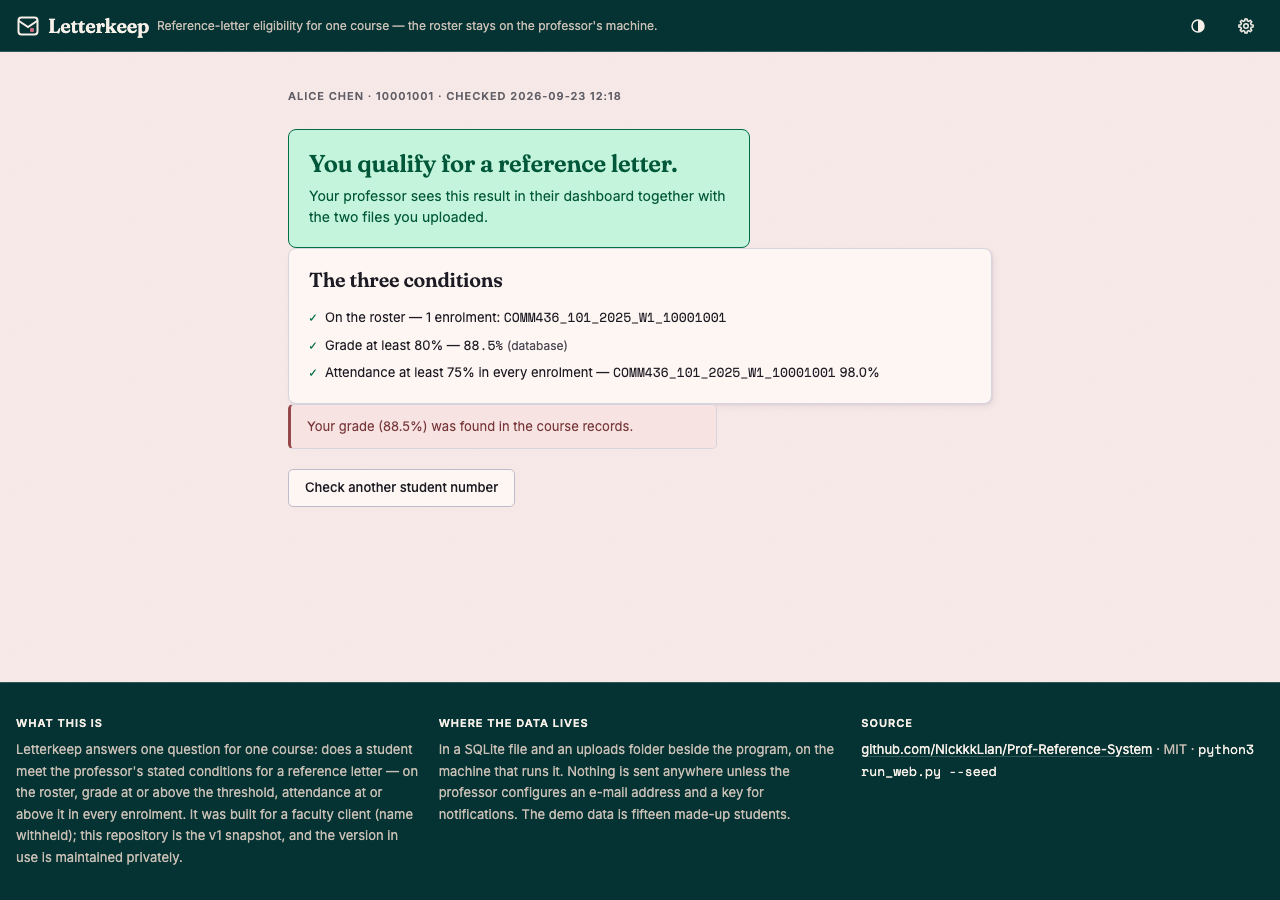
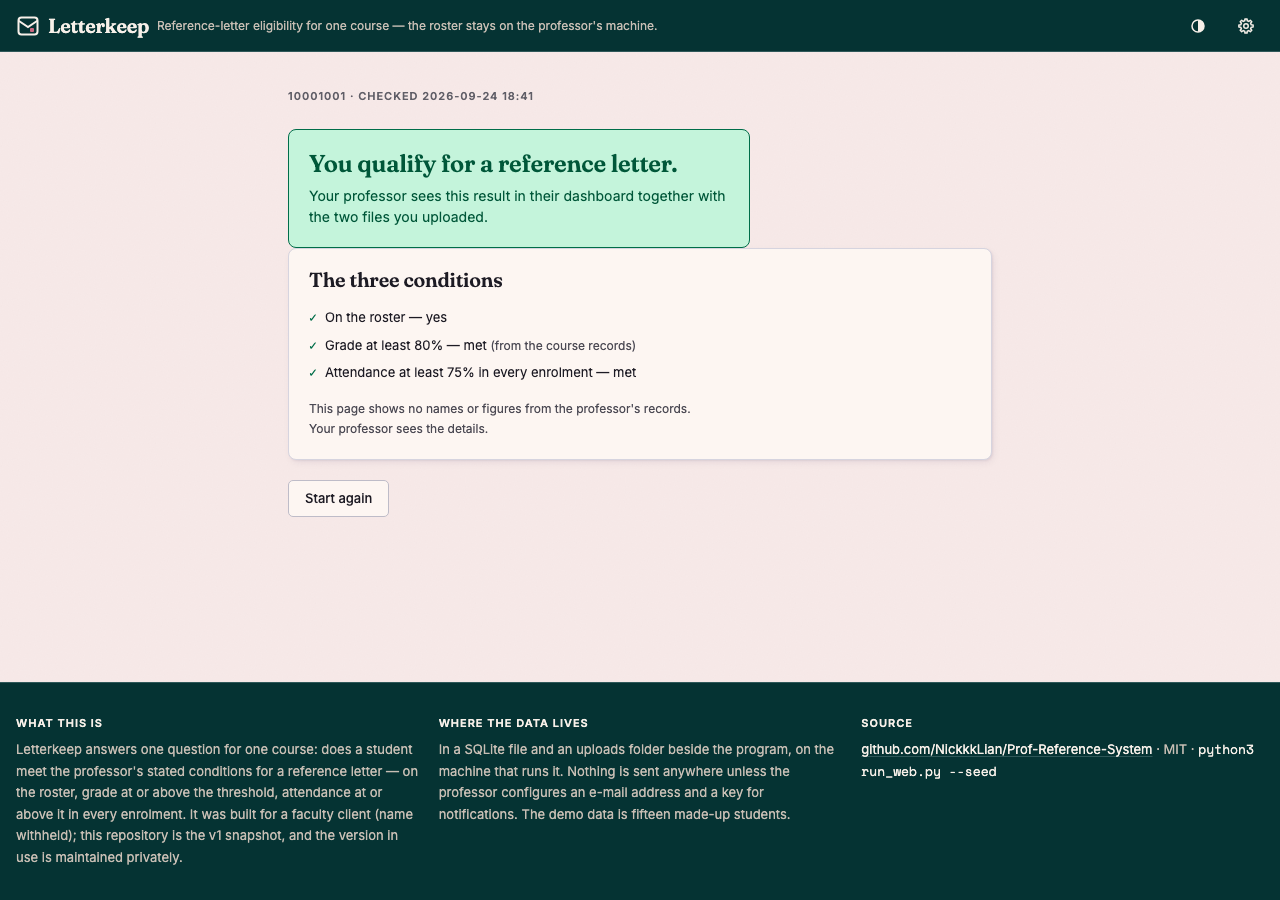
Student page: show the answer, not the roster; keep the Brevo key out
- The result page showed, for any student number typed in, the name,
  enrolments, grade and attendance figures from the roster. Anyone who
  knows a number can open it, so it now shows the answer and which
  condition is met; a grade appears only when the student supplied it
  (read from their transcript or typed in). The consent text, the
  README and the tour page say what the page shows.
- The settings page put the saved Brevo API key into a hidden field of
  the test-email form, which never reads it. The page now gets only
  whether a key is saved.
- Demo course codes and term are fictional: DEMO 310 / DEMO 320, Fall.
- tests/test_student_page.py covers both pages (30 tests).
- The four screenshots are retaken from these pages.

Changed region(s): [[0.2188, 0.3422, 0.7812, 0.56], [0.2188, 0.0933, 0.4688, 0.1244]]

diff --git a/app/templates/student_result.html b/app/templates/student_result.html
@@ -3,7 +3,7 @@
 {% block main_class %} class="narrow"{% endblock %}
 {% block content %}
 <div class="page-head">
-  <span class="eyebrow">{{ r.student_name }} · {{ r.student_number }} · checked {{ checked_at }}</span>
+  <span class="eyebrow">{{ r.student_number }} · checked {{ checked_at }}</span>
   <h1 class="sr-only">Eligibility result</h1>
 </div>
 
@@ -17,30 +17,27 @@
 <section class="card">
   <h2>The three conditions</h2>
   <ul class="checklist">
+    {# Anyone who knows a student number can open this page, so it shows no name, enrolment or figure from the
+       roster: only whether each condition is met, and a grade only when the student supplied it. #}
     <li class="{{ '' if r.in_db else 'short' }}">
-      <span>On the roster —
-      {% if r.in_db %}{{ r.identifiers | length }} enrolment{{ '' if r.identifiers | length == 1 else 's' }}:
-        <span class="mono">{{ r.identifiers | join(', ') }}</span>
-      {% else %}student number {{ r.student_number }} is not in the roster the professor imported{% endif %}</span>
+      <span>On the roster — {{ 'yes' if r.in_db else 'no: this student number is not in the roster the professor imported' }}</span>
     </li>
     <li class="{{ '' if r.grade_ok else 'short' }}">
-      <span>Grade at least {{ '%g' % r.min_grade }}% —
-      {% if r.grade is not none %}<span class="num">{{ '%.1f' % r.grade }}%</span>{% else %}not available{% endif %}
-      {% if r.grade_source %}<span class="hint">({{ r.grade_source }})</span>{% endif %}</span>
+      <span>Grade at least {{ '%g' % r.min_grade }}% — {{ 'met' if r.grade_ok else 'not met' }}
+      {% if r.grade is not none and r.grade_source in ('transcript', 'manual') %}<span class="num">({{ '%.1f' % r.grade }}%, {{ 'from your transcript' if r.grade_source == 'transcript' else 'as you entered it' }})</span>
+      {% elif r.grade_source == 'database' %}<span class="hint">(from the course records)</span>{% endif %}</span>
     </li>
     <li class="{{ '' if r.att_ok else 'short' }}">
-      <span>Attendance at least {{ '%g' % r.min_att }}% in every enrolment —
-      {% for iid, rate in r.att_results.items() %}
-        <span class="mono">{{ iid }}</span>
-        {{ '%.1f' % rate ~ '%' if rate is not none else 'no figure' }}{{ '' if loop.last else ' · ' }}
-      {% endfor %}</span>
+      <span>Attendance at least {{ '%g' % r.min_att }}% in every enrolment — {{ 'met' if r.att_ok else 'not met' }}</span>
     </li>
   </ul>
+  <p class="hint" style="margin-top:var(--space-4)">This page shows no names or figures from the professor's records.
+    Your professor sees the details.</p>
 </section>
 
 {% if grade_note %}<p class="note">{{ grade_note }}</p>{% endif %}
 
 <div class="actions">
-  <a class="btn" href="{{ url_for('student_home') }}">Check another student number</a>
+  <a class="btn" href="{{ url_for('student_home') }}">Start again</a>
 </div>
 {% endblock %}

diff --git a/app/templates/prof_import.html b/app/templates/prof_import.html
@@ -12,13 +12,13 @@
 <form class="card" method="POST" enctype="multipart/form-data">
   <div class="grid two">
     <label class="field"><span class="field-label">Course code</span>
-      <input name="course" required placeholder="e.g. COMM 436" value="{{ form_vals.get('course','') }}"></label>
+      <input name="course" required placeholder="e.g. DEMO 310" value="{{ form_vals.get('course','') }}"></label>
     <label class="field"><span class="field-label">Section</span>
       <input name="section" required placeholder="e.g. 101" value="{{ form_vals.get('section','') }}"></label>
     <label class="field"><span class="field-label">Year</span>
       <input name="year" required placeholder="e.g. 2025" value="{{ form_vals.get('year','') }}"></label>
     <label class="field"><span class="field-label">Term</span>
-      <input name="term" required placeholder="e.g. W1" value="{{ form_vals.get('term','') }}"></label>
+      <input name="term" required placeholder="e.g. Fall" value="{{ form_vals.get('term','') }}"></label>
   </div>
 
   <label class="field">

diff --git a/docs/index.html b/docs/index.html
@@ -82,9 +82,9 @@ pre{margin:var(--space-4) 0 0;padding:var(--space-4);background:var(--surface-2)
         <figcaption class="caption">The student page at 375px.</figcaption>
       </figure>
       <figure>
-        <img src="screenshot-result.png" alt="The result page: a sentence saying the student qualifies, then the three conditions with the figures behind each one." width="1280" height="900">
-        <figcaption class="caption">The answer, then each condition with the figure behind it — including which
-          enrolments were counted and where the grade came from.</figcaption>
+        <img src="screenshot-result.png" alt="The result page: a sentence saying the student qualifies, then which of the three conditions are met." width="1280" height="900">
+        <figcaption class="caption">The answer, then which condition is met. No names, enrolments or figures from
+          the roster: anyone who knows a student number can open this page.</figcaption>
       </figure>
     </div>
   </section>

diff --git a/app/templates/prof_settings.html b/app/templates/prof_settings.html
@@ -46,7 +46,7 @@
       <label class="field">
         <span class="field-label">Brevo API key</span>
         <input type="password" name="brevo_api_key" value="" autocomplete="off"
-               placeholder="{{ 'a key is saved — type a new one to replace it' if brevo_api_key else 'not set' }}">
+               placeholder="{{ 'a key is saved — type a new one to replace it' if brevo_key_saved else 'not set' }}">
         <p class="hint">Brevo's free tier sends 300 mails a day. Leave blank to keep the saved key.</p>
       </label>
       <button class="btn btn-primary" type="submit">Save</button>
@@ -54,7 +54,6 @@
 
     <form method="POST" action="{{ url_for('prof_test_email', token=token) }}" style="margin-top:var(--space-4)">
       <input type="hidden" name="notify_email" value="{{ notify_email or '' }}">
-      <input type="hidden" name="brevo_api_key" value="{{ brevo_api_key or '' }}">
       <button class="btn" type="submit">Send a test message</button>
     </form>
   </div>

diff --git a/app/templates/student_home.html b/app/templates/student_home.html
@@ -33,7 +33,8 @@
   <label class="consent">
     <input type="checkbox" name="consent" required>
     <span>I agree that my student number, name, grade and attendance may be used to decide whether I qualify for a
-      reference letter. The files and the result stay on the professor's machine and are not shared with anyone else.</span>
+      reference letter. The files stay on the professor's machine and are not shared with anyone else; this page
+      shows whether I qualify and which condition is met, never names or figures from the professor's records.</span>
   </label>
 
   <div class="actions">

diff --git a/app/seed.py b/app/seed.py
@@ -15,7 +15,7 @@ from datetime import datetime
 def create_sample_roster():
     """Create a sample roster Excel file with fake student data."""
     os.makedirs(config.ATTENDANCE_INPUT_DIR, exist_ok=True)
-    path = os.path.join(config.ATTENDANCE_INPUT_DIR, 'Sample_Roster_COMM436_2025_W1.xlsx')
+    path = os.path.join(config.ATTENDANCE_INPUT_DIR, 'Sample_Roster_DEMO310_2025_Fall.xlsx')
 
     wb = openpyxl.Workbook()
     ws = wb.active
@@ -26,21 +26,21 @@ def create_sample_roster():
     ws.append(headers)
 
     students = [
-        ('10001001', 'Alice',   'Chen',      '2025', 'W1', 'COMM 436', '101', 0.02, 88.5),
-        ('10001002', 'Bob',     'Martinez',  '2025', 'W1', 'COMM 436', '101', 0.05, 92.0),
-        ('10001003', 'Carol',   'Smith',     '2025', 'W1', 'COMM 436', '101', 0.30, 85.0),
-        ('10001004', 'David',   'Kim',       '2025', 'W1', 'COMM 436', '101', 0.08, 74.0),
-        ('10001005', 'Emma',    'Johnson',   '2025', 'W1', 'COMM 436', '101', 0.04, 91.5),
-        ('10001006', 'Frank',   'Lee',       '2025', 'W1', 'COMM 436', '101', 0.12, 79.0),
-        ('10001007', 'Grace',   'Wang',      '2025', 'W1', 'COMM 436', '101', 0.03, 95.0),
-        ('10001008', 'Henry',   'Brown',     '2025', 'W1', 'COMM 436', '101', 0.25, 83.0),
-        ('10001009', 'Iris',    'Davis',     '2025', 'W1', 'COMM 436', '101', 0.06, 87.0),
-        ('10001010', 'James',   'Wilson',    '2025', 'W1', 'COMM 436', '101', 0.40, 90.0),
-        ('10002001', 'Karen',   'Taylor',    '2025', 'W1', 'COMM 437', '201', 0.03, 89.0),
-        ('10002002', 'Liam',    'Anderson',  '2025', 'W1', 'COMM 437', '201', 0.07, 82.5),
-        ('10002003', 'Mia',     'Thomas',    '2025', 'W1', 'COMM 437', '201', 0.02, 94.0),
-        ('10002004', 'Noah',    'Jackson',   '2025', 'W1', 'COMM 437', '201', 0.15, 76.0),
-        ('10002005', 'Olivia',  'White',     '2025', 'W1', 'COMM 437', '201', 0.04, 88.0),
+        ('10001001', 'Alice',   'Chen',      '2025', 'Fall', 'DEMO 310', '101', 0.02, 88.5),
+        ('10001002', 'Bob',     'Martinez',  '2025', 'Fall', 'DEMO 310', '101', 0.05, 92.0),
+        ('10001003', 'Carol',   'Smith',     '2025', 'Fall', 'DEMO 310', '101', 0.30, 85.0),
+        ('10001004', 'David',   'Kim',       '2025', 'Fall', 'DEMO 310', '101', 0.08, 74.0),
+        ('10001005', 'Emma',    'Johnson',   '2025', 'Fall', 'DEMO 310', '101', 0.04, 91.5),
+        ('10001006', 'Frank',   'Lee',       '2025', 'Fall', 'DEMO 310', '101', 0.12, 79.0),
+        ('10001007', 'Grace',   'Wang',      '2025', 'Fall', 'DEMO 310', '101', 0.03, 95.0),
+        ('10001008', 'Henry',   'Brown',     '2025', 'Fall', 'DEMO 310', '101', 0.25, 83.0),
+        ('10001009', 'Iris',    'Davis',     '2025', 'Fall', 'DEMO 310', '101', 0.06, 87.0),
+        ('10001010', 'James',   'Wilson',    '2025', 'Fall', 'DEMO 310', '101', 0.40, 90.0),
+        ('10002001', 'Karen',   'Taylor',    '2025', 'Fall', 'DEMO 320', '201', 0.03, 89.0),
+        ('10002002', 'Liam',    'Anderson',  '2025', 'Fall', 'DEMO 320', '201', 0.07, 82.5),
+        ('10002003', 'Mia',     'Thomas',    '2025', 'Fall', 'DEMO 320', '201', 0.02, 94.0),
+        ('10002004', 'Noah',    'Jackson',   '2025', 'Fall', 'DEMO 320', '201', 0.15, 76.0),
+        ('10002005', 'Olivia',  'White',     '2025', 'Fall', 'DEMO 320', '201', 0.04, 88.0),
     ]
 
     for s in students:
@@ -59,24 +59,24 @@ def create_eligible_students():
             'student_name': 'Alice Chen',
             'grade': 88.5,
             'grade_source': 'database',
-            'identifiers': ['COMM436_101_2025_W1_10001001'],
-            'att_rates': {'COMM436_101_2025_W1_10001001': 98.0},
+            'identifiers': ['DEMO310_101_2025_Fall_10001001'],
+            'att_rates': {'DEMO310_101_2025_Fall_10001001': 98.0},
         },
         {
             'student_number': '10001002',
             'student_name': 'Bob Martinez',
             'grade': 92.0,
             'grade_source': 'database',
-            'identifiers': ['COMM436_101_2025_W1_10001002'],
-            'att_rates': {'COMM436_101_2025_W1_10001002': 95.0},
+            'identifiers': ['DEMO310_101_2025_Fall_10001002'],
+            'att_rates': {'DEMO310_101_2025_Fall_10001002': 95.0},
         },
         {
             'student_number': '10002003',
             'student_name': 'Mia Thomas',
             'grade': 94.0,
             'grade_source': 'database',
-            'identifiers': ['COMM437_201_2025_W1_10002003'],
-            'att_rates': {'COMM437_201_2025_W1_10002003': 98.0},
+            'identifiers': ['DEMO320_201_2025_Fall_10002003'],
+            'att_rates': {'DEMO320_201_2025_Fall_10002003': 98.0},
         },
     ]
 

diff --git a/tests/test_student_page.py b/tests/test_student_page.py
@@ -1,0 +1,67 @@
+"""What the pages give away. The student's result page can be opened by anyone who knows a student number, so it shows
+the answer and which condition is met, but no name, enrolment or figure from the roster; a grade appears only when the
+student supplied it. The professor's settings page never puts the saved Brevo key into the HTML."""
+import io
+import re
+
+import pytest
+
+
+@pytest.fixture()
+def client(data_dir):
+    from app import web
+    web.app.config.update(TESTING=True)
+    return web.app.test_client()
+
+
+def submit(client, student_number):
+    pdf = b"%PDF-1.4\n%%EOF\n"   # the files are stored, not read, when the grade is already in the course records
+    return client.post("/check", content_type="multipart/form-data", data={
+        "student_number": student_number, "consent": "on",
+        "transcript": (io.BytesIO(pdf), f"{student_number}_transcript.pdf"),
+        "letter": (io.BytesIO(pdf), f"{student_number}_letter.pdf"),
+    })
+
+
+def short_conditions(html):
+    """The first word of every condition the page marks as not met."""
+    return re.findall(r'<li class="short">\s*<span>(\w+)', html)
+
+
+def test_a_qualifying_student_sees_the_answer_and_nothing_from_the_roster(client, enrol):
+    enrol("10000101", "DEMO 310", attendance_pct=96.0, grade=88.5, name="Alice Example")
+    html = submit(client, "10000101").get_data(as_text=True)
+    assert "You qualify for a reference letter." in html
+    assert short_conditions(html) == []
+    for roster_detail in ("Alice", "Example", "88.5", "96.0", "DEMO310", "DEMO 310"):
+        assert roster_detail not in html, roster_detail
+
+
+def test_the_short_condition_is_named_without_its_figure(client, enrol):
+    enrol("10000102", "DEMO 310", attendance_pct=96.0, grade=88.5, name="Bob Example")
+    enrol("10000102", "DEMO 320", attendance_pct=61.5, grade=88.5, name="Bob Example")
+    html = submit(client, "10000102").get_data(as_text=True)
+    assert "You do not qualify yet." in html
+    assert short_conditions(html) == ["Attendance"]
+    for roster_detail in ("Bob", "61.5", "96.0", "88.5", "DEMO320", "DEMO 320"):
+        assert roster_detail not in html, roster_detail
+
+
+def test_a_number_not_on_the_roster_says_so_and_nothing_else(client, data_dir):
+    html = submit(client, "10000999")
+    # no grade in the records and none in a blank PDF: the student is asked to type it
+    assert "The transcript did not give up a grade" in html.get_data(as_text=True)
+    html = client.post("/check/manual-grade", data={"student_number": "10000999", "manual_grade": "91",
+                                                    "trans_fname": "", "letter_fname": ""}).get_data(as_text=True)
+    assert short_conditions(html) == ["On", "Attendance"]
+    assert "91.0%, as you entered it" in html   # the figure the student supplied is theirs to see
+
+
+def test_the_settings_page_never_contains_the_saved_brevo_key(client, monkeypatch):
+    from app import config, web
+    monkeypatch.setattr(config, "load_email_settings", lambda: None)
+    monkeypatch.setattr(config, "BREVO_API_KEY", "xkeysib-test-0123456789abcdef")
+    monkeypatch.setattr(config, "NOTIFY_EMAIL", "prof@example.com")
+    html = client.get(f"/prof/{web.PROF_TOKEN}/settings").get_data(as_text=True)
+    assert "xkeysib-test-0123456789abcdef" not in html
+    assert "a key is saved" in html

diff --git a/tests/test_eligibility.py b/tests/test_eligibility.py
@@ -20,7 +20,7 @@ def test_not_on_the_roster_is_never_eligible(data_dir):
 
 @pytest.mark.parametrize("grade, expected", [(95.0, True), (80.0, True), (79.9, False), (None, False)])
 def test_grade_against_the_threshold(enrol, grade, expected):
-    enrol("10000001", "COMM 436", attendance_pct=90.0, grade=grade)
+    enrol("10000001", "DEMO 310", attendance_pct=90.0, grade=grade)
     r = eligibility.check("10000001", grade=grade)
     assert r["grade_ok"] is expected
     assert r["eligible"] is expected
@@ -28,7 +28,7 @@ def test_grade_against_the_threshold(enrol, grade, expected):
 
 @pytest.mark.parametrize("attendance, expected", [(100.0, True), (75.0, True), (74.9, False)])
 def test_attendance_against_the_threshold(enrol, attendance, expected):
-    enrol("10000002", "COMM 436", attendance_pct=attendance, grade=88.0)
+    enrol("10000002", "DEMO 310", attendance_pct=attendance, grade=88.0)
     r = eligibility.check("10000002", grade=88.0)
     assert r["att_ok"] is expected
     assert r["eligible"] is expected
@@ -36,8 +36,8 @@ def test_attendance_against_the_threshold(enrol, attendance, expected):
 
 def test_every_enrolment_has_to_pass_attendance(enrol):
     """Two courses, one of them short: not eligible. This is the case the rule exists for."""
-    enrol("10000003", "COMM 436", attendance_pct=96.0, grade=91.0)
-    enrol("10000003", "COMM 437", attendance_pct=60.0, grade=91.0)
+    enrol("10000003", "DEMO 310", attendance_pct=96.0, grade=91.0)
+    enrol("10000003", "DEMO 320", attendance_pct=60.0, grade=91.0)
     r = eligibility.check("10000003", grade=91.0)
     assert len(r["identifiers"]) == 2
     assert len(r["passing_ids"]) == 1
@@ -45,22 +45,22 @@ def test_every_enrolment_has_to_pass_attendance(enrol):
 
 
 def test_all_enrolments_passing_is_eligible(enrol):
-    enrol("10000004", "COMM 436", attendance_pct=96.0, grade=91.0)
-    enrol("10000004", "COMM 437", attendance_pct=88.0, grade=91.0)
+    enrol("10000004", "DEMO 310", attendance_pct=96.0, grade=91.0)
+    enrol("10000004", "DEMO 320", attendance_pct=88.0, grade=91.0)
     r = eligibility.check("10000004", grade=91.0)
     assert r["passing_ids"] == r["identifiers"] and r["eligible"] is True
 
 
 def test_missing_attendance_is_not_a_pass(enrol):
     """A row with no attendance figure must not count as meeting the threshold."""
-    enrol("10000005", "COMM 436", attendance_pct=None, grade=91.0)
+    enrol("10000005", "DEMO 310", attendance_pct=None, grade=91.0)
     r = eligibility.check("10000005", grade=91.0)
-    assert r["att_results"] == {"COMM436_101_2025_W1_10000005": None}
+    assert r["att_results"] == {"DEMO310_101_2025_Fall_10000005": None}
     assert r["att_ok"] is False and r["eligible"] is False
 
 
 def test_the_result_carries_the_thresholds_it_used(enrol):
-    enrol("10000006", "COMM 436", attendance_pct=96.0, grade=91.0)
+    enrol("10000006", "DEMO 310", attendance_pct=96.0, grade=91.0)
     r = eligibility.check("10000006", grade=91.0, grade_source="transcript")
     assert (r["min_grade"], r["min_att"]) == (80.0, 75.0)
     assert r["grade_source"] == "transcript"

diff --git a/tests/test_roster_import.py b/tests/test_roster_import.py
@@ -28,7 +28,7 @@ SPELLINGS = [
 @pytest.mark.parametrize("headers, what", SPELLINGS, ids=[s[1] for s in SPELLINGS])
 def test_the_documented_spellings_all_parse(tmp_path, data_dir, headers, what):
     path = roster(tmp_path / "r.xlsx", headers, [["10000001", "Alice", "Chen", 0.04, 88.5]])
-    records = am.parse_roster_file(path, course="COMM 436", section="101", year="2025", term="W1")
+    records = am.parse_roster_file(path, course="DEMO 310", section="101", year="2025", term="Fall")
     assert len(records) == 1, what
     r = records[0]
     assert r["student_number"] == "10000001"
@@ -40,7 +40,7 @@ def test_the_documented_spellings_all_parse(tmp_path, data_dir, headers, what):
 def test_absence_as_a_percentage_and_as_a_fraction_mean_the_same(tmp_path, data_dir):
     a = roster(tmp_path / "frac.xlsx", ["Student #", "First Name", "Last Name", "%Abs"], [["1", "A", "B", 0.04]])
     b = roster(tmp_path / "pct.xlsx", ["Student #", "First Name", "Last Name", "%Abs"], [["1", "A", "B", 4]])
-    meta = dict(course="COMM 436", section="101", year="2025", term="W1")
+    meta = dict(course="DEMO 310", section="101", year="2025", term="Fall")
     assert (am.parse_roster_file(a, **meta)[0]["attendance_rate_pct"]
             == pytest.approx(am.parse_roster_file(b, **meta)[0]["attendance_rate_pct"])
             == pytest.approx(96.0))
@@ -49,14 +49,14 @@ def test_absence_as_a_percentage_and_as_a_fraction_mean_the_same(tmp_path, data_
 def test_a_missing_required_column_is_refused_by_name(tmp_path, data_dir):
     path = roster(tmp_path / "no-abs.xlsx", ["Student #", "First Name", "Last Name"], [["1", "A", "B"]])
     with pytest.raises(ValueError) as e:
-        am.parse_roster_file(path, course="COMM 436", section="101", year="2025", term="W1")
+        am.parse_roster_file(path, course="DEMO 310", section="101", year="2025", term="Fall")
     assert "%abs" in str(e.value)
 
 
 def test_rows_without_a_student_number_are_skipped(tmp_path, data_dir):
     path = roster(tmp_path / "gaps.xlsx", ["Student #", "First Name", "Last Name", "%Abs"],
                   [["10000001", "Alice", "Chen", 0.0], [None, "", "", None], ["10000002", "Bo", "Li", 0.5]])
-    records = am.parse_roster_file(path, course="COMM 436", section="101", year="2025", term="W1")
+    records = am.parse_roster_file(path, course="DEMO 310", section="101", year="2025", term="Fall")
     assert [r["student_number"] for r in records] == ["10000001", "10000002"]
 
 
@@ -66,7 +66,7 @@ def test_the_import_writes_what_the_rule_reads(tmp_path, data_dir):
 
     path = roster(tmp_path / "class.xlsx", ["Student #", "First Name", "Last Name", "%Abs", "Grade"],
                   [["10000001", "Alice", "Chen", 0.04, 88.5], ["10000002", "Bo", "Li", 0.40, 91.0]])
-    am.import_file(path, course="COMM 436", section="101", year="2025", term="W1", verbose=False)
+    am.import_file(path, course="DEMO 310", section="101", year="2025", term="Fall", verbose=False)
 
     assert db.count_enrolments() == 2
     good = eligibility.check("10000001", grade=88.5)

diff --git a/app/web.py b/app/web.py
@@ -124,7 +124,7 @@ def student_check():
     valid_db  = [v for v in db_grades.values() if v is not None]
     if valid_db:
         grade     = round(sum(valid_db) / len(valid_db), 2)
-        grade_note = f"Your grade ({grade:.1f}%) was found in the course records."
+        grade_note = ""   # the checklist says the grade came from the course records; the figure stays with the professor
         return _run_eligibility(sno, grade, "database",
                                 trans_fname, letter_fname, grade_note)
 
@@ -553,7 +553,7 @@ def prof_settings(token):
                            min_att=config.MIN_ATTENDANCE_PERCENT,
                            msg=msg, msg_type=msg_type,
                            notify_email=config.NOTIFY_EMAIL,
-                           brevo_api_key=config.BREVO_API_KEY)
+                           brevo_key_saved=bool(config.BREVO_API_KEY))   # never the key itself: it would land in the HTML
 
 
 @app.route("/prof/<token>/settings/email", methods=["POST"])

diff --git a/tests/conftest.py b/tests/conftest.py
@@ -43,8 +43,8 @@ def enrol(data_dir):
     def add(student_number: str, course: str, attendance_pct: float, grade=None, name="Test Student"):
         first, _, last = name.partition(" ")
         db.upsert_enrolment({
-            "identifier": f"{course.replace(' ', '')}_101_2025_W1_{student_number}",
-            "course": course, "section": "101", "year": "2025", "term": "W1",
+            "identifier": f"{course.replace(' ', '')}_101_2025_Fall_{student_number}",
+            "course": course, "section": "101", "year": "2025", "term": "Fall",
             "student_number": student_number, "student_name": name,
             "first_name": first, "last_name": last,
             "absence_rate_pct": None if attendance_pct is None else round(100 - attendance_pct, 4),

diff --git a/README.md b/README.md
@@ -36,11 +36,12 @@ three conditions, all read from the roster the professor imported:
    not on average: one course short is not eligible.
 
 The grade is read from the transcript PDF when it can be, and typed by the student when it cannot; which of the two
-happened is recorded and shown to the professor.
+happened is recorded and shown to the professor. The student's page shows the answer and which condition is met,
+but no name, enrolment or figure from the roster: anyone who knows a student number can open it.
 
 | | |
 |---|---|
-| ![The answer, and the three conditions with the figures behind them](docs/screenshot-result.png) | ![The professor's dashboard: counts, a quick check, and who was checked recently](docs/screenshot-dashboard.png) |
+| ![The answer, and which of the three conditions are met](docs/screenshot-result.png) | ![The professor's dashboard: counts, a quick check, and who was checked recently](docs/screenshot-dashboard.png) |
 | The student's answer | The professor's dashboard |
 
 ```mermaid
